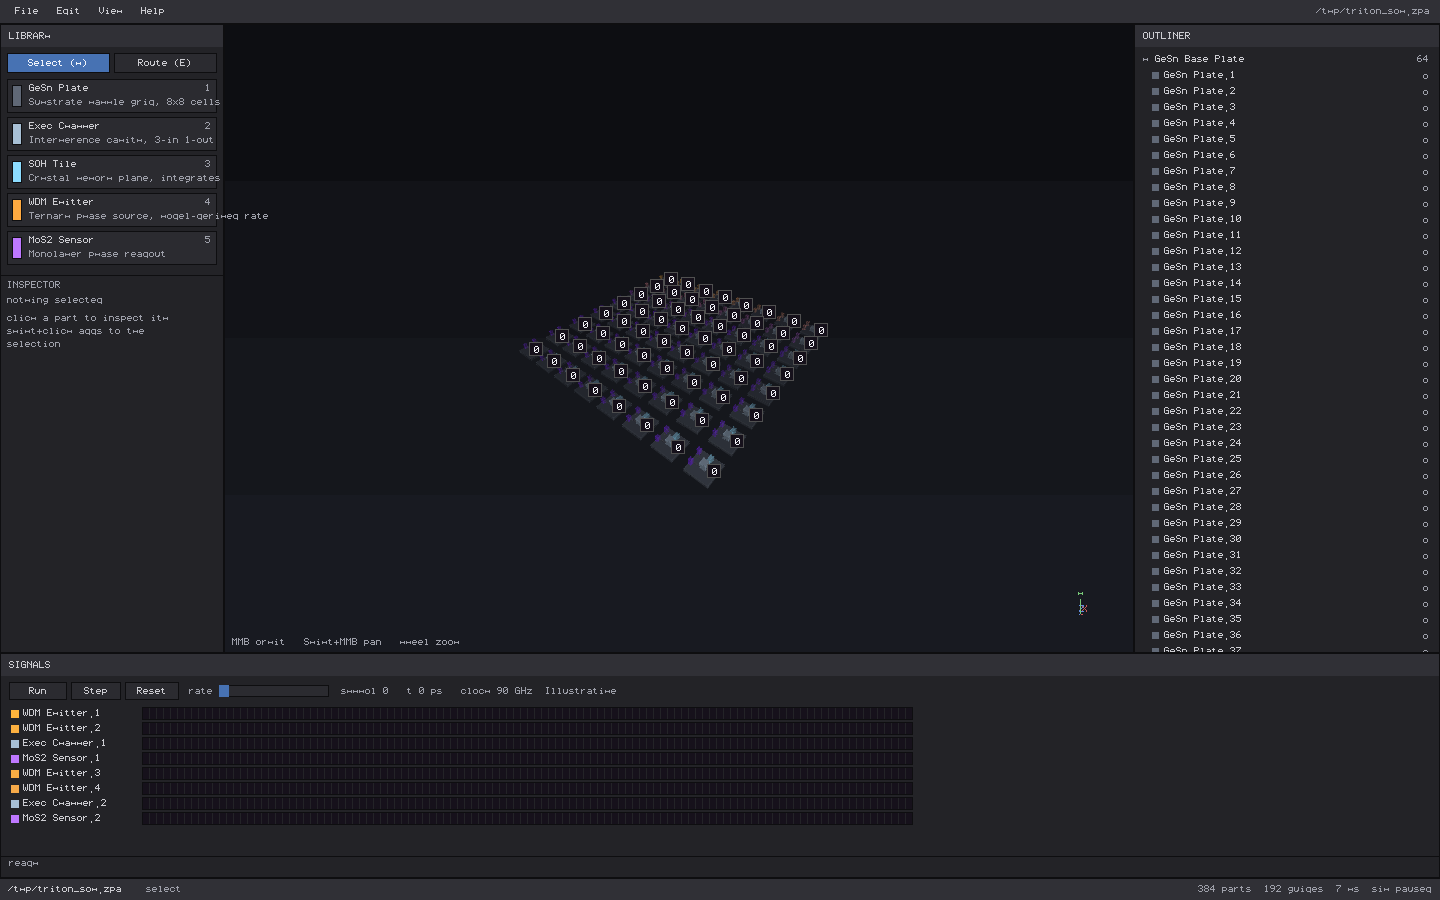
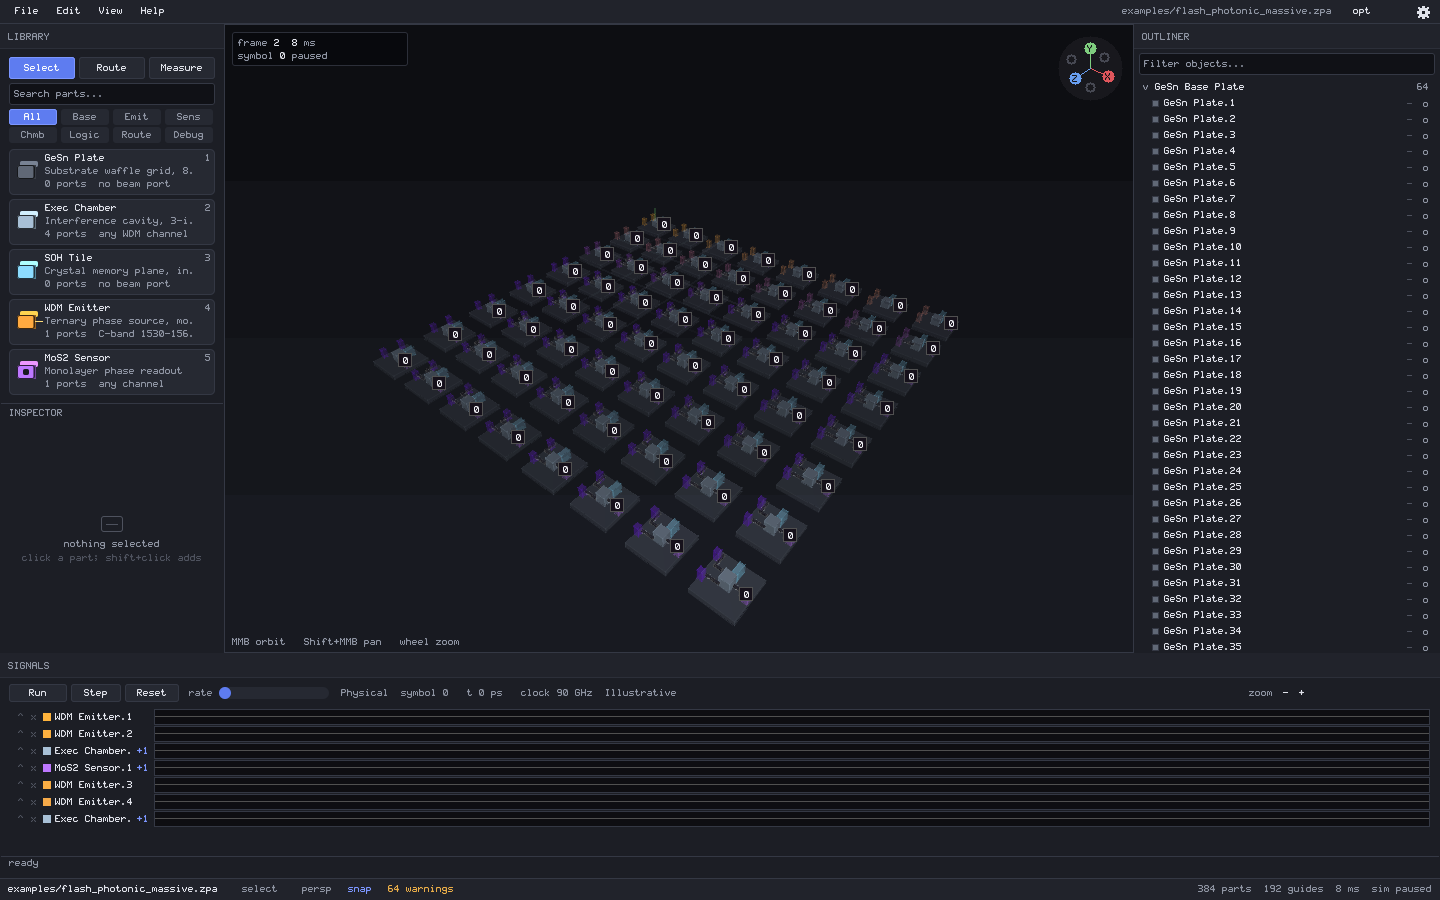
Keep workbench text within UI bounds

diff --git a/README.md b/README.md
@@ -21,7 +21,7 @@ and live signal controls in the same native workspace.*
 
 ![PrismStudio imported Flash PCU design](evidence/captures/flash-pcu-1440.png)
 
-*A larger Flash FIR-imported PCU design in the native workbench, with the
+*A current Flash FIR-imported PCU design in the native workbench, with the
 library, outliner, and detector signal timeline visible together.*
 
 ## Design the system. Inspect the signal. Keep the evidence.